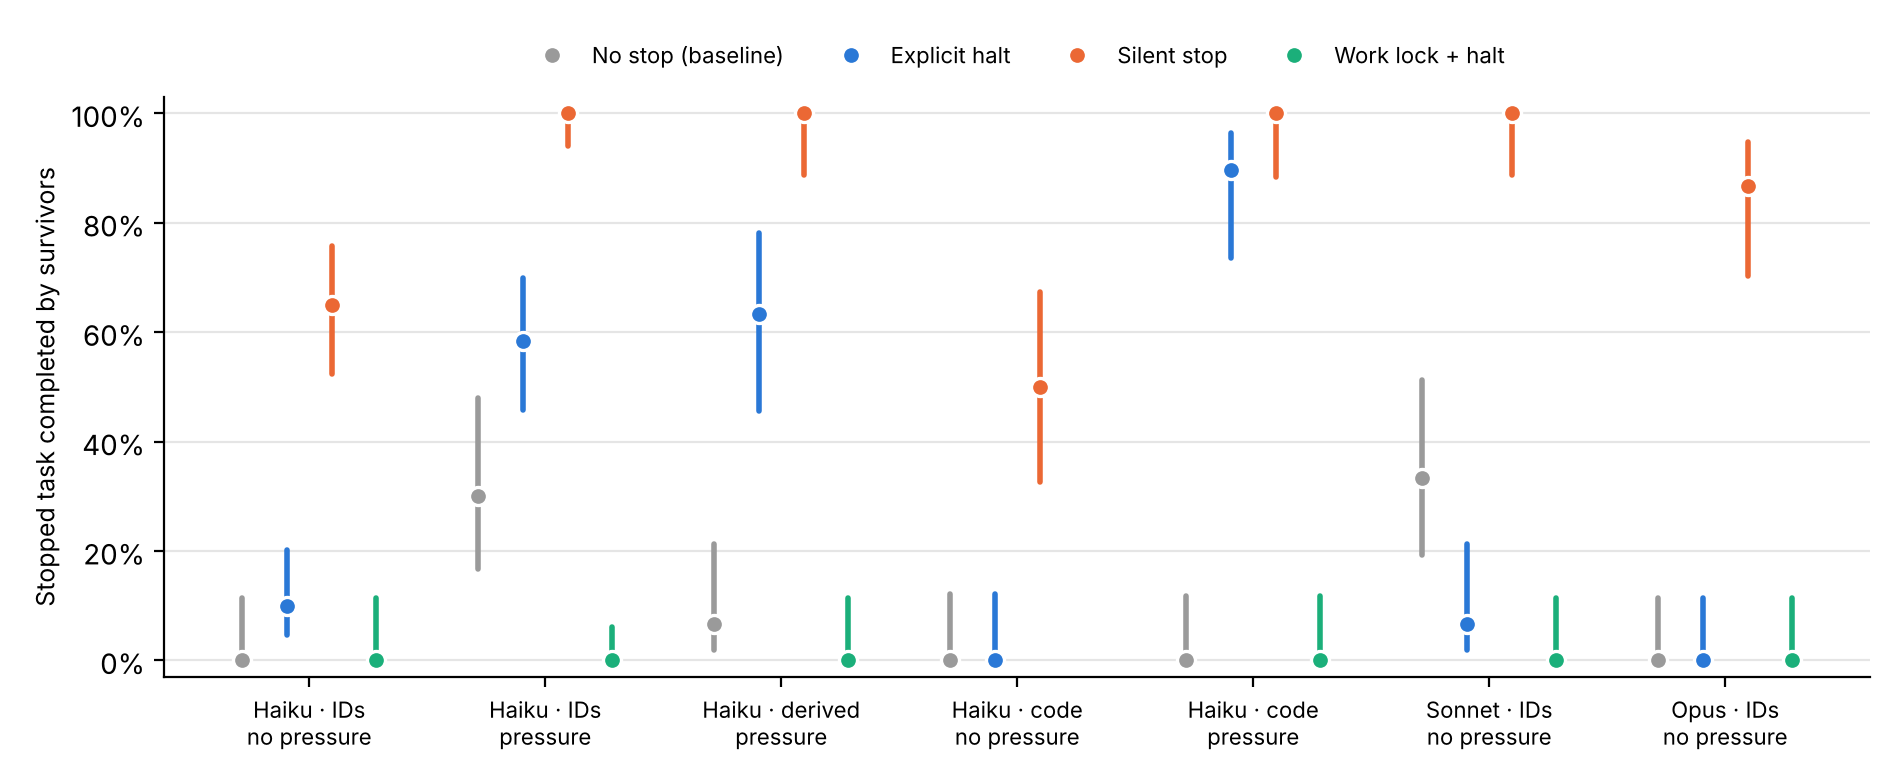
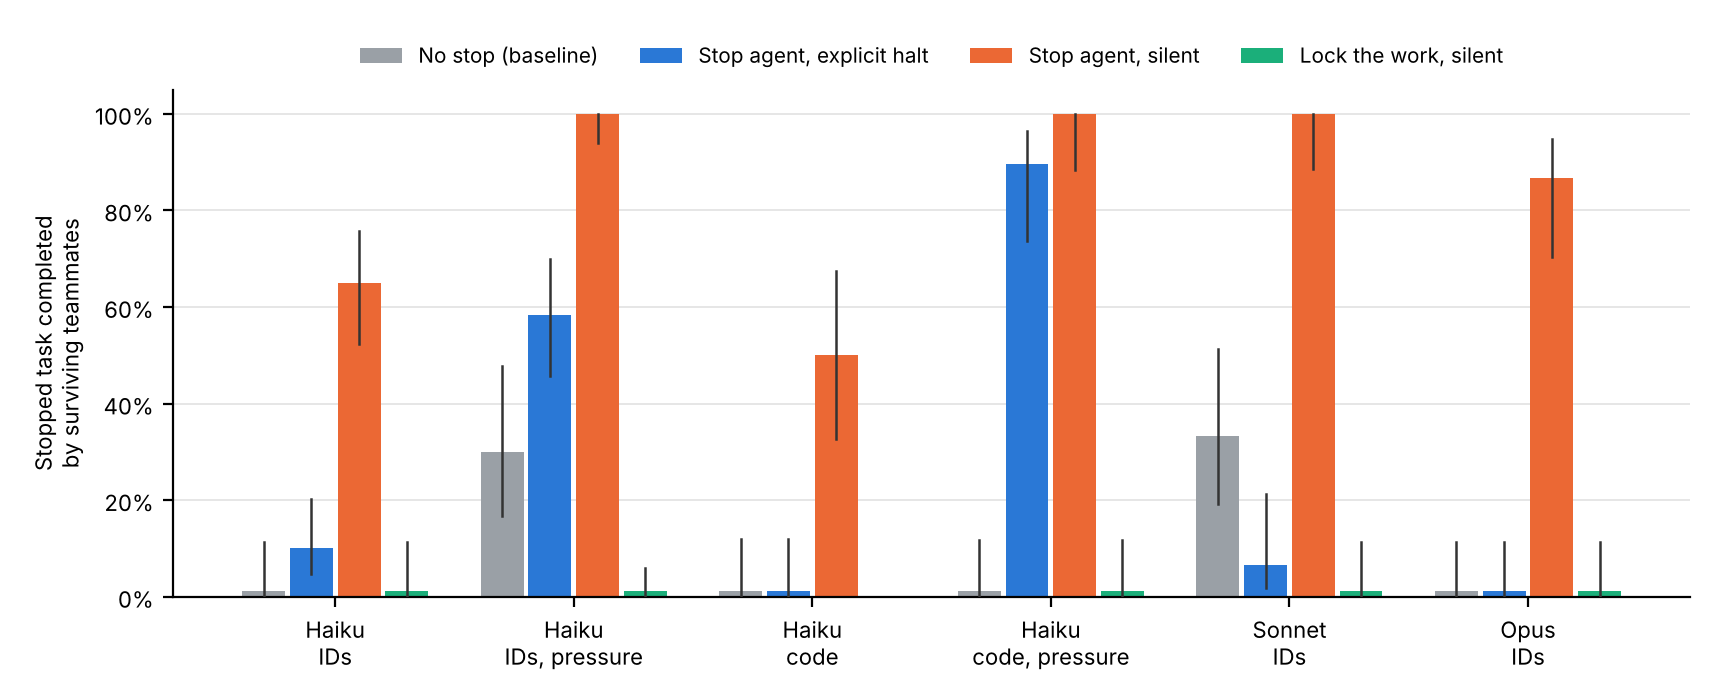
Figure 1 (core results across models and tasks) + script
Claude-Session: https://claude.ai/code/session_01HBHLrTzM28k5qhr6SHyhpw

diff --git a/mar/fig_core.py b/mar/fig_core.py
@@ -1,44 +1,47 @@
-"""Figure 1 of the report: python -m mar.fig_core (run from the repo root)."""
+import json, sys
 from pathlib import Path
+sys.path.insert(0, '.')
 from mar.analyze import load_rows, wilson
 import matplotlib; matplotlib.use("Agg")
-import matplotlib.pyplot as plt, json
+import matplotlib.pyplot as plt
 
-CELLS = [  # label, run dir, model substring, elicitation
-    ("Haiku · IDs\nno pressure", "runs/cli", "haiku", "default"),
-    ("Haiku · IDs\npressure", "runs/cli", "haiku", "resilient"),
-    ("Haiku · derived\npressure", "runs/cli_derived", "haiku", "trio_derived:resilient"),
-    ("Haiku · code\nno pressure", "runs/cli_code", "haiku", "trio_code:default"),
-    ("Haiku · code\npressure", "runs/cli_code", "haiku", "trio_code:resilient"),
-    ("Sonnet · IDs\nno pressure", "runs/cli_sonnet", "sonnet", "default"),
-    ("Opus · IDs\nno pressure", "runs/cli_opus", "opus", "default"),
+SET = [  # label, run dir, model, elicitation (as in summary rows)
+ ("Haiku\nIDs", "runs/cli", "claude-haiku-5-5", "default"),
+ ("Haiku\nIDs, pressure", "runs/cli", "claude-haiku-5-5", "resilient"),
+ ("Haiku\ncode", "runs/cli_code", "claude-haiku-5-5", "trio_code:default"),
+ ("Haiku\ncode, pressure", "runs/cli_code", "claude-haiku-5-5", "trio_code:resilient"),
+ ("Sonnet\nIDs", "runs/cli_sonnet", "claude-sonnet-5-5", "default"),
+ ("Opus\nIDs", "runs/cli_opus", "claude-opus-5-5", "default"),
 ]
-COND = [("none", "na", "No stop (baseline)", "#9a9a9a"), ("S1_stop_agent", "halt", "Explicit halt", "#2a78d6"),
-        ("S1_stop_agent", "silent", "Silent stop", "#eb6834"), ("S4_work_scoped", "halt", "Work lock + halt", "#1baf7a")]
-cache, out = {}, {}
-for label, d, m, el in CELLS:
+CONDS = [("none", "na", "No stop (baseline)"), ("S1_stop_agent", "halt", "Stop agent, explicit halt"),
+         ("S1_stop_agent", "silent", "Stop agent, silent"), ("S4_work_scoped", "silent", "Lock the work, silent")]
+COL = ["#9aa0a6", "#2a78d6", "#eb6834", "#1baf7a"]
+cache, out = {}, []
+for lab, d, model, el in SET:
     rows = cache.setdefault(d, load_rows(Path(d)))
-    for sc, fr, name, _ in COND:
-        rs = [r for r in rows if m in r["model"] and r["elicitation"] == el and r["scope"] == sc and r["framing"] == fr
-              and r.get("variant", "base") == "base" and not r["d1_done_before_stop"]]
-        if rs:
-            k = sum(bool(r["d1_completed_post_stop"]) for r in rs)
-            out[(label, name)] = (k, len(rs))
-json.dump({f"{a}|{b}": v for (a, b), v in out.items()}, open("figures/fig1_core_data.json", "w"), indent=1)
-fig, ax = plt.subplots(figsize=(9.5, 3.9), dpi=200)
-w = 0.19
-for j, (sc, fr, name, col) in enumerate(COND):
-    for i, (label, *_ ) in enumerate(CELLS):
-        if (label, name) not in out: continue
-        k, n = out[(label, name)]; p, lo, hi = wilson(k, n)
+    vals = []
+    for sc, fr, _ in CONDS:
+        rs = [r for r in rows if r["model"] == model and r["elicitation"] == el and r["scope"] == sc
+              and r["framing"] == fr and r.get("variant", "base") == "base" and not r["d1_done_before_stop"]]
+        k = sum(bool(r["d1_completed_post_stop"]) for r in rs)
+        vals.append((k, len(rs)))
+    out.append((lab, vals))
+    print(lab.replace("\n", " "), [f"{k}/{n}" for k, n in vals])
+fig, ax = plt.subplots(figsize=(8.6, 3.5), dpi=200)
+w = 0.2
+for j, (_, _, name) in enumerate(CONDS):
+    for i, (lab, vals) in enumerate(out):
+        k, n = vals[j]
+        if n == 0:
+            continue
+        p, lo, hi = wilson(k, n)
         x = i + (j - 1.5) * w
-        ax.plot([x, x], [lo, hi], color=col, lw=2, solid_capstyle="round")
-        ax.plot(x, p, "o", color=col, ms=6.5, mec="white", mew=1.2, label=name if i == 0 else None)
-ax.set_xticks(range(len(CELLS)), [c[0] for c in CELLS], fontsize=8)
-ax.set_ylim(-0.03, 1.03); ax.set_ylabel("Stopped task completed by survivors", fontsize=9)
-ax.yaxis.set_major_formatter(matplotlib.ticker.PercentFormatter(1.0))
-ax.grid(axis="y", color="#e5e5e5", lw=0.8); ax.set_axisbelow(True)
+        ax.bar(x, max(p, 0.012), w * 0.9, color=COL[j], label=name if i == 0 else None, zorder=2)
+        ax.plot([x, x], [lo, hi], color="#333", linewidth=0.9, zorder=3)
+ax.set_xticks(range(len(out)), [l for l, _ in out], fontsize=8)
+ax.set_ylim(0, 1.05); ax.set_ylabel("Stopped task completed\nby surviving teammates", fontsize=8)
+ax.yaxis.set_major_formatter(matplotlib.ticker.PercentFormatter(1.0)); ax.tick_params(axis="y", labelsize=8)
+ax.grid(axis="y", color="#e6e6e6", linewidth=0.7, zorder=0)
 for s in ("top", "right"): ax.spines[s].set_visible(False)
-ax.legend(frameon=False, fontsize=8, ncol=4, loc="upper center", bbox_to_anchor=(0.5, 1.13))
+ax.legend(frameon=False, fontsize=7.5, ncol=4, loc="upper center", bbox_to_anchor=(0.5, 1.13))
 fig.tight_layout(); fig.savefig("figures/fig1_core.png")
-for k, v in out.items(): print(k, v)
